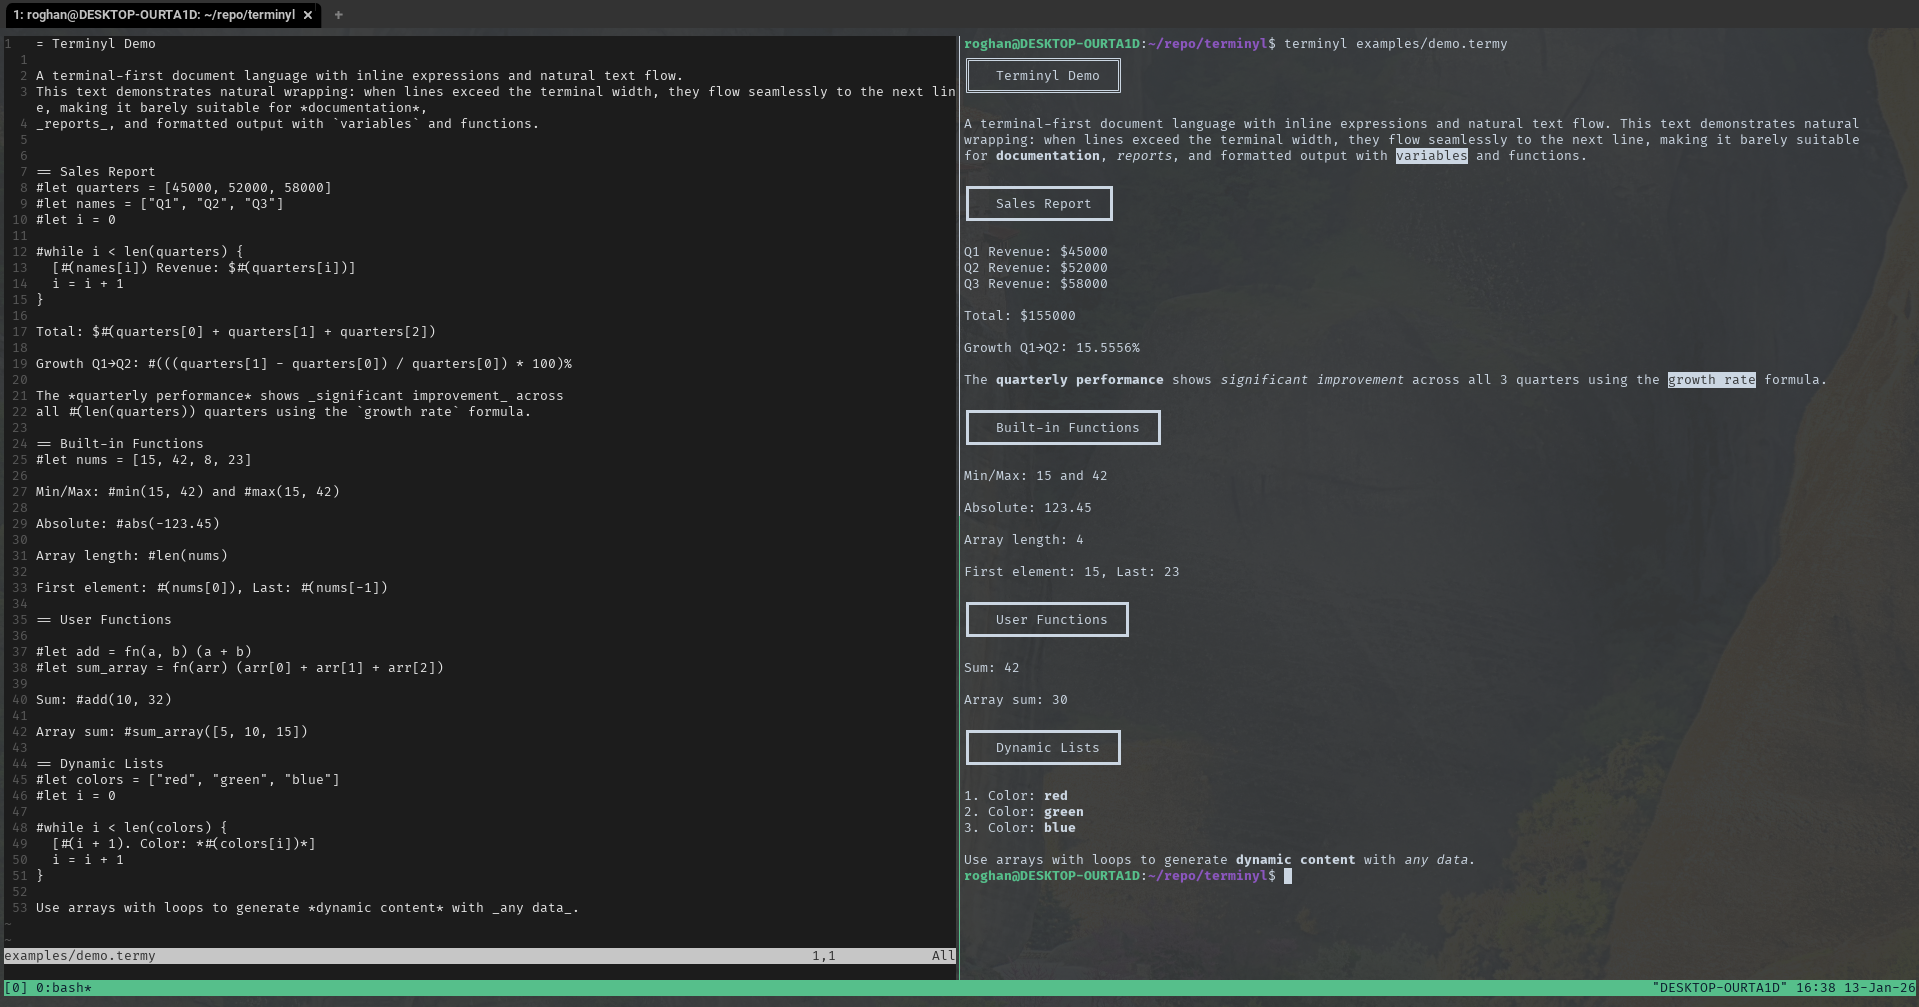
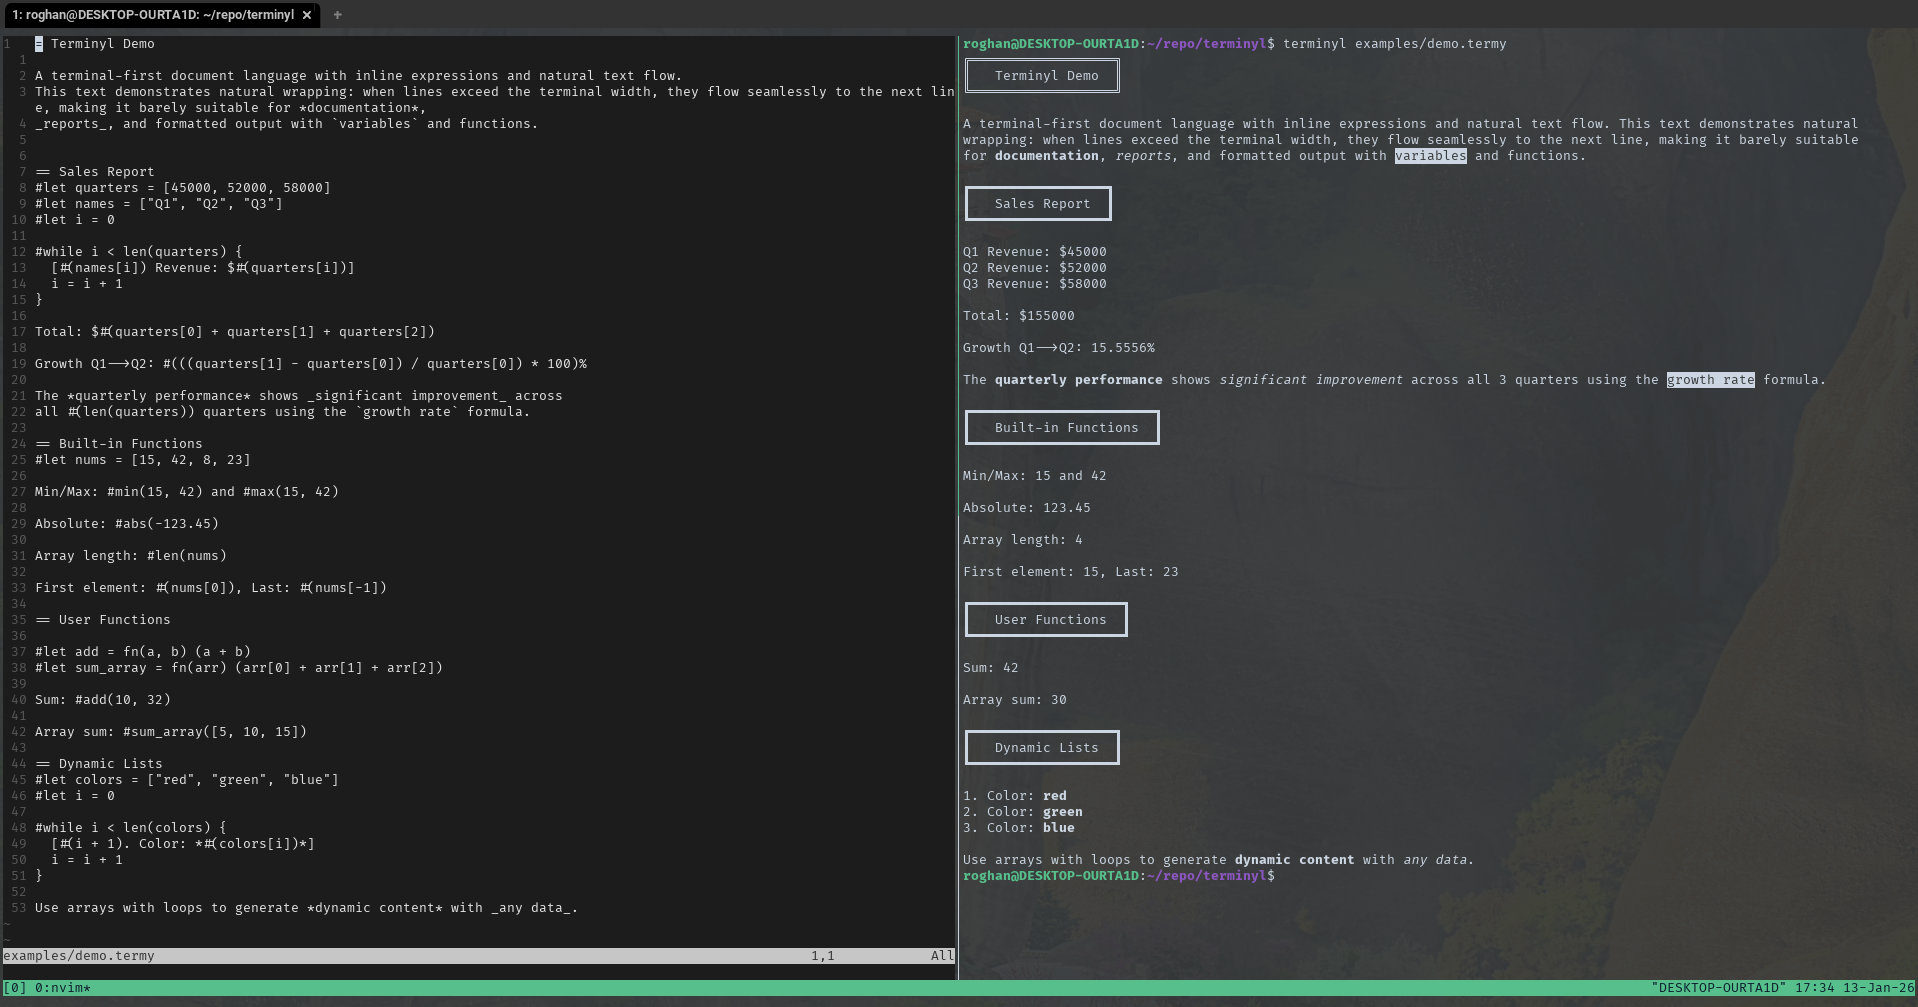
refactor: Lowerer::callFunction now uses a dispatch table

diff --git a/src/lowerer.cpp b/src/lowerer.cpp
@@ -69,7 +69,7 @@ void Lowerer::execStmt(const Document::BlockPtr &blk, Document &out) {
         } else if constexpr (std::is_same_v<T, Document::Block::Paragraph>) {
           auto lowered = lowerInlines(b.inlines);
 
-          // Don’t emit paragraphs that produce no visible output
+          // Don't emit paragraphs that produce no visible output
           if (isWhitespaceOnly(lowered))
             return;
 
@@ -441,84 +441,160 @@ Value Lowerer::evalCall(const Document::Expr::Call &node, SourceSpan span) {
       func_value->v);
 }
 
+std::optional<double> Lowerer::asNumber(const Value &v,
+                                        const std::string &context,
+                                        SourceSpan span) {
+  auto num = std::get_if<double>(&v.v);
+  if (!num) {
+    error(context + " requires numeric argument", span);
+    return std::nullopt;
+  }
+  return *num;
+}
+
+std::optional<Array*> Lowerer::asArray(Value &v, const std::string &context,
+                                        SourceSpan span) {
+  auto arr = std::get_if<Array>(&v.v);
+  if (!arr) {
+    error(context + " requires array argument", span);
+    return std::nullopt;
+  }
+  return arr;
+}
+
+std::optional<const Array*>
+Lowerer::asArray(const Value &v, const std::string &context,
+                 SourceSpan span) const {
+  auto arr = std::get_if<Array>(&v.v);
+  if (!arr) {
+    return std::nullopt;
+  }
+  return arr;
+}
+
+void Lowerer::initBuiltinHandlers() {
+  builtin_handlers_["max"] = [this](const std::vector<Value> &args,
+                                     SourceSpan span) {
+    return builtinMax(args, span);
+  };
+
+  builtin_handlers_["min"] = [this](const std::vector<Value> &args,
+                                     SourceSpan span) {
+    return builtinMin(args, span);
+  };
+
+  builtin_handlers_["len"] = [this](const std::vector<Value> &args,
+                                     SourceSpan span) {
+    return builtinLen(args, span);
+  };
+
+  builtin_handlers_["abs"] = [this](const std::vector<Value> &args,
+                                     SourceSpan span) {
+    return builtinAbs(args, span);
+  };
+
+  builtin_handlers_["push"] = [this](const std::vector<Value> &args,
+                                      SourceSpan span) {
+    return builtinPush(args, span);
+  };
+
+  builtin_handlers_["pop"] = [this](const std::vector<Value> &args,
+                                     SourceSpan span) {
+    return builtinPop(args, span);
+  };
+}
+
+Value Lowerer::builtinMax(const std::vector<Value> &args, SourceSpan span) {
+  auto a = asNumber(args[0], "#max(x, y)", span);
+  auto b = asNumber(args[1], "#max(x, y)", span);
+  if (!a || !b) {
+    return Value{Error{"Type error"}};
+  }
+  return Value{std::max(*a, *b)};
+}
+
+Value Lowerer::builtinMin(const std::vector<Value> &args, SourceSpan span) {
+  auto a = asNumber(args[0], "#min(x, y)", span);
+  auto b = asNumber(args[1], "#min(x, y)", span);
+  if (!a || !b) {
+    return Value{Error{"Type error"}};
+  }
+  return Value{std::min(*a, *b)};
+}
+
+Value Lowerer::builtinLen(const std::vector<Value> &args, SourceSpan span) {
+  return std::visit(
+      [&](auto const &v) -> Value {
+        using T = std::remove_cvref_t<decltype(v)>;
+        if constexpr (std::is_same_v<T, std::string>) {
+          return Value{static_cast<double>(v.size())};
+        } else if constexpr (std::is_same_v<T, Array>) {
+          return Value{static_cast<double>(v.elements.size())};
+        } else {
+          error("len() requires a string or array argument", span);
+          return Value{Error{"Type error"}};
+        }
+      },
+      args[0].v);
+}
+
+Value Lowerer::builtinAbs(const std::vector<Value> &args, SourceSpan span) {
+  auto value = asNumber(args[0], "#abs(x)", span);
+  if (!value) {
+    return Value{Error{"Type error"}};
+  }
+  return Value{std::abs(*value)};
+}
+
+Value Lowerer::builtinPush(const std::vector<Value> &args, SourceSpan span) {
+  if (args.empty()) {
+    error("push() requires at least 1 argument", span);
+    return Value{Error{"Arity mismatch"}};
+  }
+
+  auto *arr = std::get_if<Array>(&args[0].v);
+  if (!arr) {
+    error("First argument to push() must be an array", span);
+    return Value{Error{"Type error"}};
+  }
+
+  Array result = *arr;
+  for (size_t i = 1; i < args.size(); ++i) {
+    result.elements.push_back(args[i]);
+  }
+
+  return Value{std::move(result)};
+}
+
+Value Lowerer::builtinPop(const std::vector<Value> &args, SourceSpan span) {
+  auto *arr = std::get_if<Array>(&args[0].v);
+  if (!arr) {
+    error("pop() requires an array argument", span);
+    return Value{Error{"Type error"}};
+  }
+
+  if (arr->elements.empty()) {
+    error("Cannot pop from empty array", span);
+    return Value{Error{"Runtime error"}};
+  }
+
+  return arr->elements.back();
+}
+
 Value Lowerer::callFunction(const BuiltinFunction &func,
                             const std::vector<Value> &args, SourceSpan span) {
   // Check arity
-  if (func.arity != -1) {
-    if (args.size() != static_cast<size_t>(func.arity)) {
-      error("Expected " + std::to_string(func.arity) + " arguments", span);
-      return Value{Error{"Arity mismatch"}};
-    }
+  if (func.arity != -1 && args.size() != static_cast<size_t>(func.arity)) {
+    error("Expected " + std::to_string(func.arity) + " arguments", span);
+    return Value{Error{"Arity mismatch"}};
   }
 
-  if (func.name == "max") {
-    auto a = std::get_if<double>(&args[0].v);
-    auto b = std::get_if<double>(&args[1].v);
-    if (!a || !b) {
-      error("#max(x, y) requires numeric arguments", span);
-      return Value{Error{"Type error"}};
-    }
-    return Value{std::max(*a, *b)};
-  } else if (func.name == "min") {
-    auto a = std::get_if<double>(&args[0].v);
-    auto b = std::get_if<double>(&args[1].v);
-    if (!a || !b) {
-      error("#min(x, y) requires numeric arguments", span);
-      return Value{Error{"Type error"}};
-    }
-    return Value{std::min(*a, *b)};
-  } else if (func.name == "len") {
-    return std::visit(
-        [&](auto const &v) -> Value {
-          using T = std::remove_cvref_t<decltype(v)>;
-          if constexpr (std::is_same_v<T, std::string>) {
-            return Value{static_cast<double>(v.size())};
-          } else if constexpr (std::is_same_v<T, Array>) {
-            return Value{static_cast<double>(v.elements.size())};
-          } else {
-            error("len() requires a string or array argument", span);
-            return Value{Error{"Type error"}};
-          }
-        },
-        args[0].v);
-  } else if (func.name == "abs") {
-    auto value = std::get_if<double>(&args[0].v);
-    if (!value) {
-      error("#abs(x) requires numeric argument", span);
-      return Value{Error{"Type error"}};
-    }
-    return Value{std::abs(*value)};
-  } else if (func.name == "push") {
-    if (args.empty()) {
-      error("push() requires at least 1 argument", span);
-      return Value{Error{"Arity mismatch"}};
-    }
-
-    auto *arr = std::get_if<Array>(&args[0].v);
-    if (!arr) {
-      error("First argument to push() must be an array", span);
-      return Value{Error{"Type error"}};
-    }
-    Array result = *arr;
-    for (size_t i = 1; i < args.size(); ++i) {
-      result.elements.push_back(args[i]);
-    }
-
-    return Value{std::move(result)};
-  } else if (func.name == "pop") {
-    auto *arr = std::get_if<Array>(&args[0].v);
-    if (!arr) {
-      error("pop() requires an array argument", span);
-      return Value{Error{"Type error"}};
-    }
-
-    if (arr->elements.empty()) {
-      error("Cannot pop from empty array", span);
-      return Value{Error{"Runtime error"}};
-    }
-
-    return arr->elements.back();
+  // Dispatch to handler
+  auto it = builtin_handlers_.find(func.name);
+  if (it != builtin_handlers_.end()) {
+    return it->second(args, span);
   }
+
   error("Unknown built-in function: " + func.name, span);
   return Value{Error{"Unknown function"}};
 }
@@ -546,7 +622,7 @@ Value Lowerer::callFunction(const UserFunction &func,
   return result;
 }
 
-static bool isWhitespaceOnly(const std::vector<Document::InlinePtr> &inlines) {
+bool Lowerer::isWhitespaceOnly(const std::vector<Document::InlinePtr> &inlines) {
   for (auto const &inl : inlines) {
     bool has_visible = std::visit(
         [&](auto const &node) -> bool {
@@ -563,7 +639,7 @@ static bool isWhitespaceOnly(const std::vector<Document::InlinePtr> &inlines) {
                                std::is_same_v<U, Document::Inline::Italic>) {
             return !isWhitespaceOnly(node.children);
           } else {
-            return true; // Other node types are visible
+            return true; // Other node types visible
           }
         },
         inl->node);

diff --git a/include/lowerer.hpp b/include/lowerer.hpp
@@ -1,13 +1,17 @@
 #include "document.hpp"
 #include "error.hpp"
 #include "value.hpp"
+#include <functional>
 #include <memory>
 #include <optional>
+#include <unordered_map>
 
 class Lowerer {
 public:
   explicit Lowerer(const Document &doc)
-      : doc_(doc), environment_(Environment::createGlobal()) {}
+      : doc_(doc), environment_(Environment::createGlobal()) {
+    initBuiltinHandlers();
+  }
   const DiagnosticSet &diagnostics() const { return diagnostics_; }
   Document lower(); // lower doc_ into a new Document
   const Document &getDoc() const { return doc_; }
@@ -40,6 +44,30 @@ private:
                      SourceSpan span);
   Value evalUnaryOp(const Value &rhs, TokenType op, SourceSpan span);
   std::string toString(const Value &v);
-  void execStmt(const Document::BlockPtr& blk, Document& out);
-  void execWhile(const Document::Block::While& w, SourceSpan span, Document& out);
+  void execStmt(const Document::BlockPtr &blk, Document &out);
+  void execWhile(const Document::Block::While &w, SourceSpan span,
+                 Document &out);
+
+    bool isWhitespaceOnly(const std::vector<Document::InlinePtr> &inlines);
+      
+  using BuiltinHandler =
+      std::function<Value(const std::vector<Value> &, SourceSpan)>;
+  std::unordered_map<std::string, BuiltinHandler> builtin_handlers_;
+  void initBuiltinHandlers();
+
+  // Builtin implementations
+  Value builtinMax(const std::vector<Value> &args, SourceSpan span);
+  Value builtinMin(const std::vector<Value> &args, SourceSpan span);
+  Value builtinLen(const std::vector<Value> &args, SourceSpan span);
+  Value builtinAbs(const std::vector<Value> &args, SourceSpan span);
+  Value builtinPush(const std::vector<Value> &args, SourceSpan span);
+  Value builtinPop(const std::vector<Value> &args, SourceSpan span);
+
+  // Type checking
+  std::optional<double> asNumber(const Value &v, const std::string &context,
+                                 SourceSpan span);
+  std::optional<Array*> asArray(Value &v, const std::string &context,
+                                 SourceSpan span);
+  std::optional<const Array*>
+  asArray(const Value &v, const std::string &context, SourceSpan span) const;
 };
